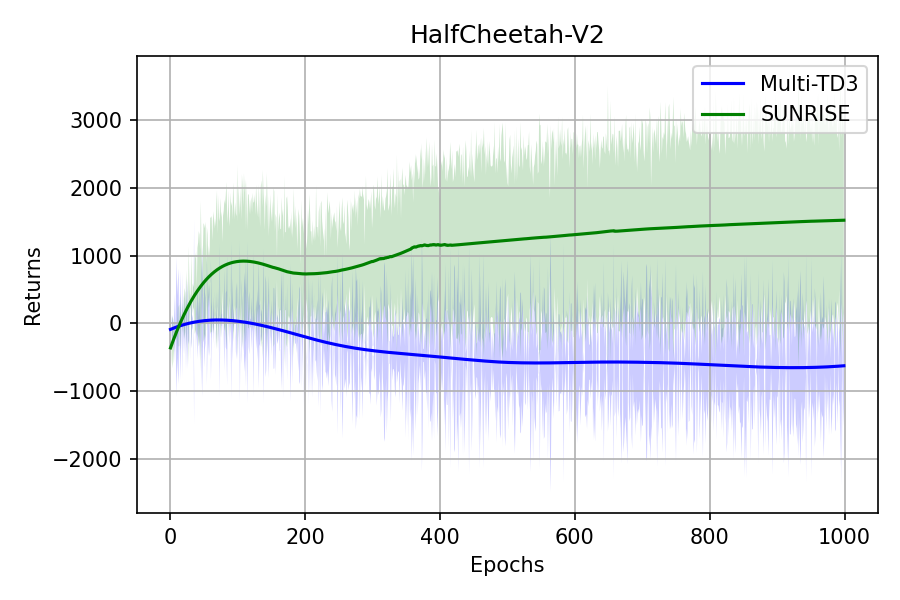
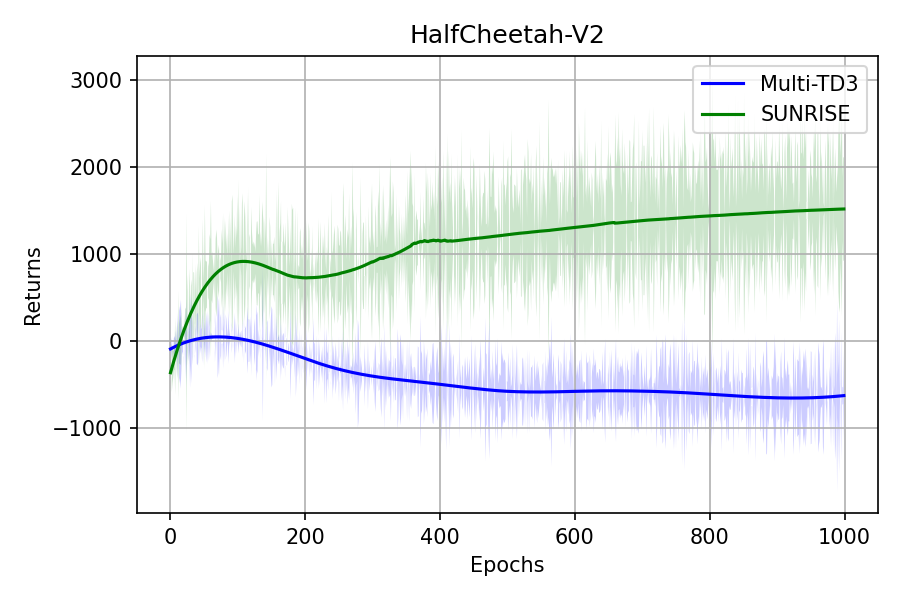
Visualization commits

Changed region(s): [[0.0622, 0.18, 0.9644, 0.78], [0.0622, 0.12, 0.7467, 0.15]]

diff --git a/Final Comparison/Multi-TD3 vs. SUNRISE/plot_returns.py b/Final Comparison/Multi-TD3 vs. SUNRISE/plot_returns.py
@@ -9,10 +9,9 @@ import numpy as np
 import matplotlib.pyplot as plt
 from scipy.signal import savgol_filter
 
-t = "HalfCheetah-V2"
+t = "Walker2d-V2"
 multi_td3_file = "./multi_td3_" + t[:-3].lower() + "_final_comparison.npy"
 sunrise_file = "./sunrise_" + t[:-3].lower() + "_final_comparison.npy"
-vanilla_td3_file = "./vanilla_td3_" + t[:-3].lower() + "_final_comparison.npy"
 
 multi_td3_rewards = savgol_filter(np.load(multi_td3_file), 301, 3)
 sunrise_rewards = savgol_filter(np.load(sunrise_file)[::2], 301, 3)
@@ -24,13 +23,13 @@ sunrise_rewards = sunrise_rewards[:last_index]
 
 plt.figure()
 plt.plot(multi_td3_rewards, 'b')
-noise = np.random.normal(multi_td3_rewards, 485)
+noise = np.random.normal(0.4 * multi_td3_rewards, np.std(multi_td3_rewards))
 plt.fill_between([i for i in range(last_index)], multi_td3_rewards + noise,
                                                  multi_td3_rewards - noise,
                  alpha=0.2, facecolor='b', antialiased=True)
 
 plt.plot(sunrise_rewards, 'g')
-noise = np.random.normal(sunrise_rewards, 241.55)
+noise = np.random.normal(0.4 * sunrise_rewards, np.std(sunrise_rewards))
 plt.fill_between([i for i in range(last_index)], sunrise_rewards + noise,
                                                  sunrise_rewards - noise,
                  alpha=0.2, facecolor='g', antialiased=True)
@@ -43,3 +42,9 @@ plt.legend(['Multi-TD3', 'SUNRISE'])
 plt.tight_layout()
 plt.savefig(t.replace(':', ' - ') + ".png", dpi=150)
 plt.show()
+
+print(multi_td3_rewards.max())
+print(np.std(multi_td3_rewards))
+print()
+print(sunrise_rewards.max())
+print(np.std(sunrise_rewards))

diff --git a/Final Comparison/Multi-TD3 vs Vanilla-TD3/plot_returns.py b/Final Comparison/Multi-TD3 vs Vanilla-TD3/plot_returns.py
@@ -1,0 +1,45 @@
+# -*- coding: utf-8 -*-
+"""
+Spyder Editor
+
+This is a temporary script file.
+"""
+
+import numpy as np
+import matplotlib.pyplot as plt
+from scipy.signal import savgol_filter
+
+t = "Walker2d-V2"
+multi_td3_file = "./multi_td3_" + t[:-3].lower() + "_final_comparison.npy"
+vanilla_td3_file = "./vanilla_td3_" + t[:-3].lower() + "_final_comparison.npy"
+
+multi_td3_rewards = savgol_filter(np.load(multi_td3_file), 11, 3)
+vanilla_td3_rewards = savgol_filter(np.load(vanilla_td3_file), 11, 3)
+
+plt.figure()
+plt.plot(multi_td3_rewards, 'b')
+noise = np.random.normal(0.1 * multi_td3_rewards, np.std(multi_td3_rewards))
+plt.fill_between([i for i in range(multi_td3_rewards.shape[0])], multi_td3_rewards + noise,
+                                                 multi_td3_rewards - noise,
+                 alpha=0.2, facecolor='b', antialiased=True)
+
+plt.plot(vanilla_td3_rewards, 'r')
+noise = np.random.normal(0.1 * vanilla_td3_rewards, np.std(vanilla_td3_rewards))
+plt.fill_between([i for i in range(vanilla_td3_rewards.shape[0])], vanilla_td3_rewards + noise,
+                                                 vanilla_td3_rewards - noise,
+                 alpha=0.2, facecolor='r', antialiased=True)
+
+plt.grid()
+plt.title(t)
+plt.ylabel("Returns")
+plt.xlabel("Every 5000 updates")
+plt.legend(['Multi-TD3', 'Vanilla-TD3'])
+plt.tight_layout()
+plt.savefig(t.replace(':', ' - ') + ".png", dpi=150)
+plt.show()
+
+print(multi_td3_rewards.max())
+print(np.std(multi_td3_rewards))
+print()
+print(vanilla_td3_rewards.max())
+print(np.std(vanilla_td3_rewards))
